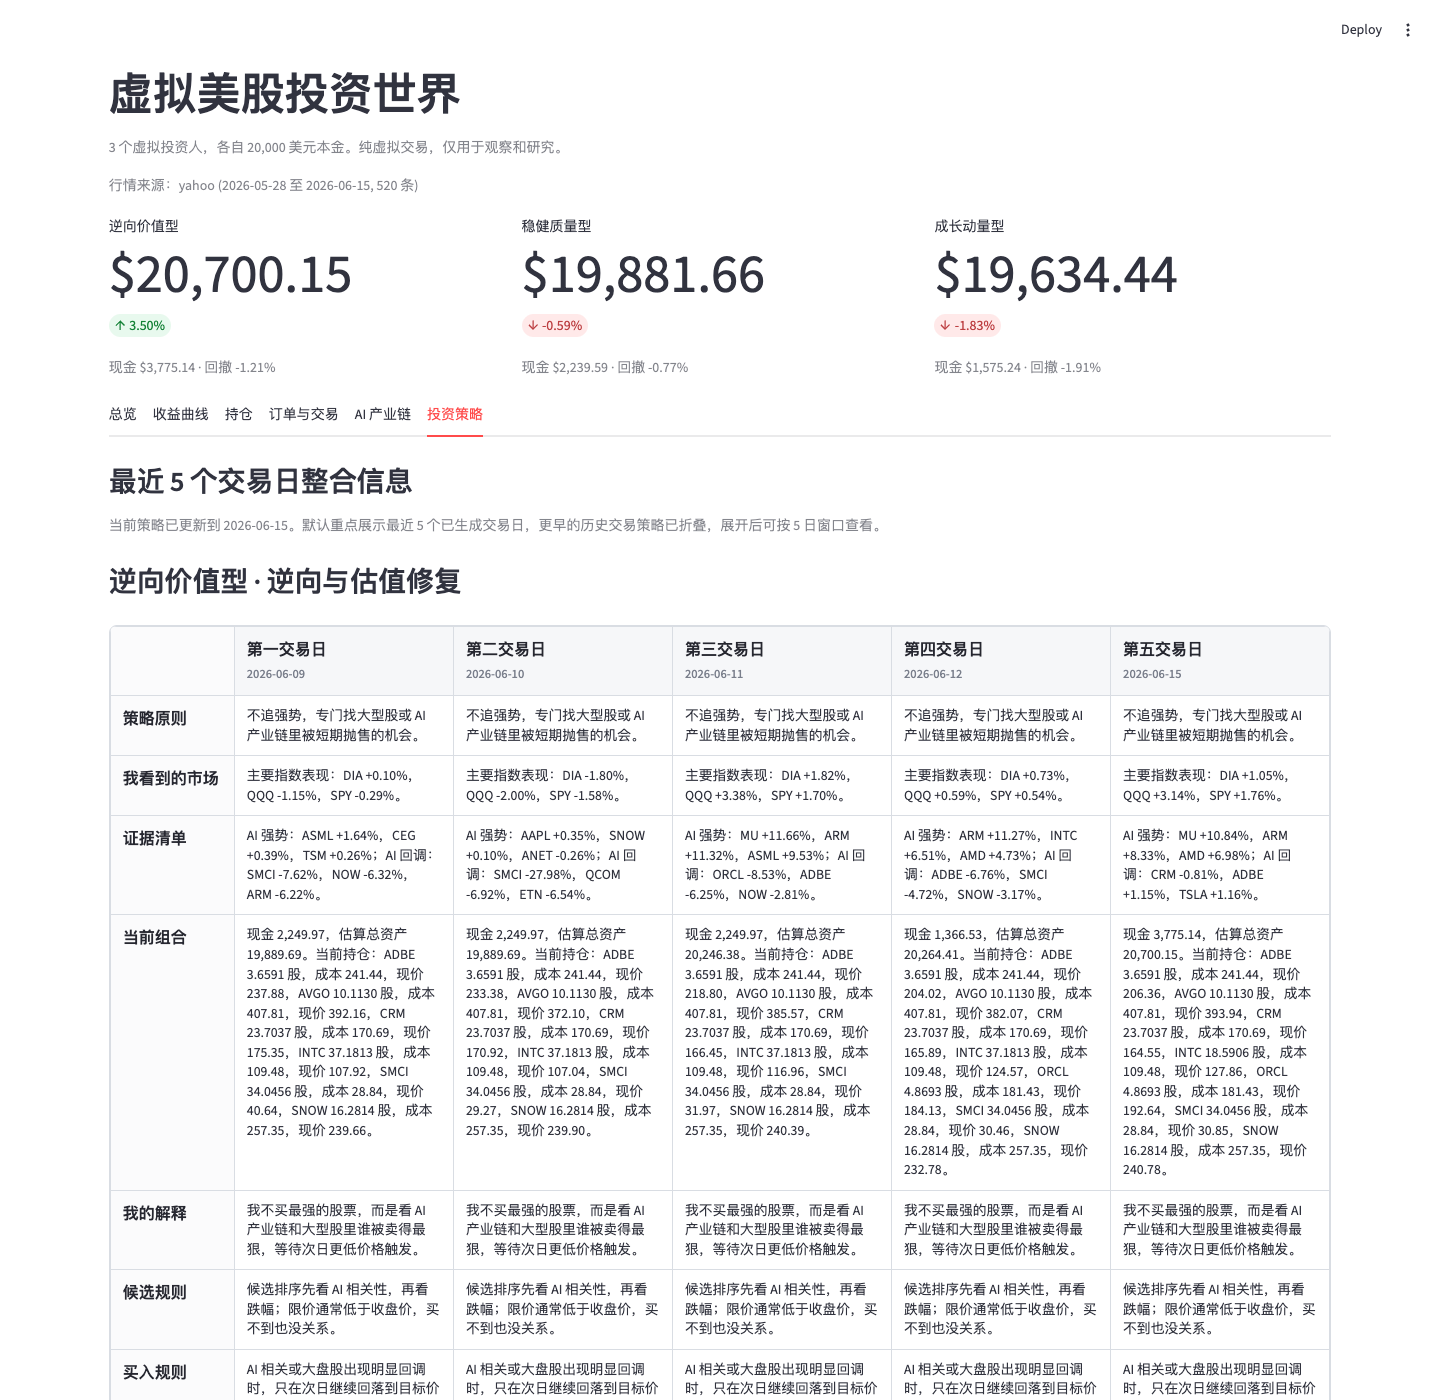
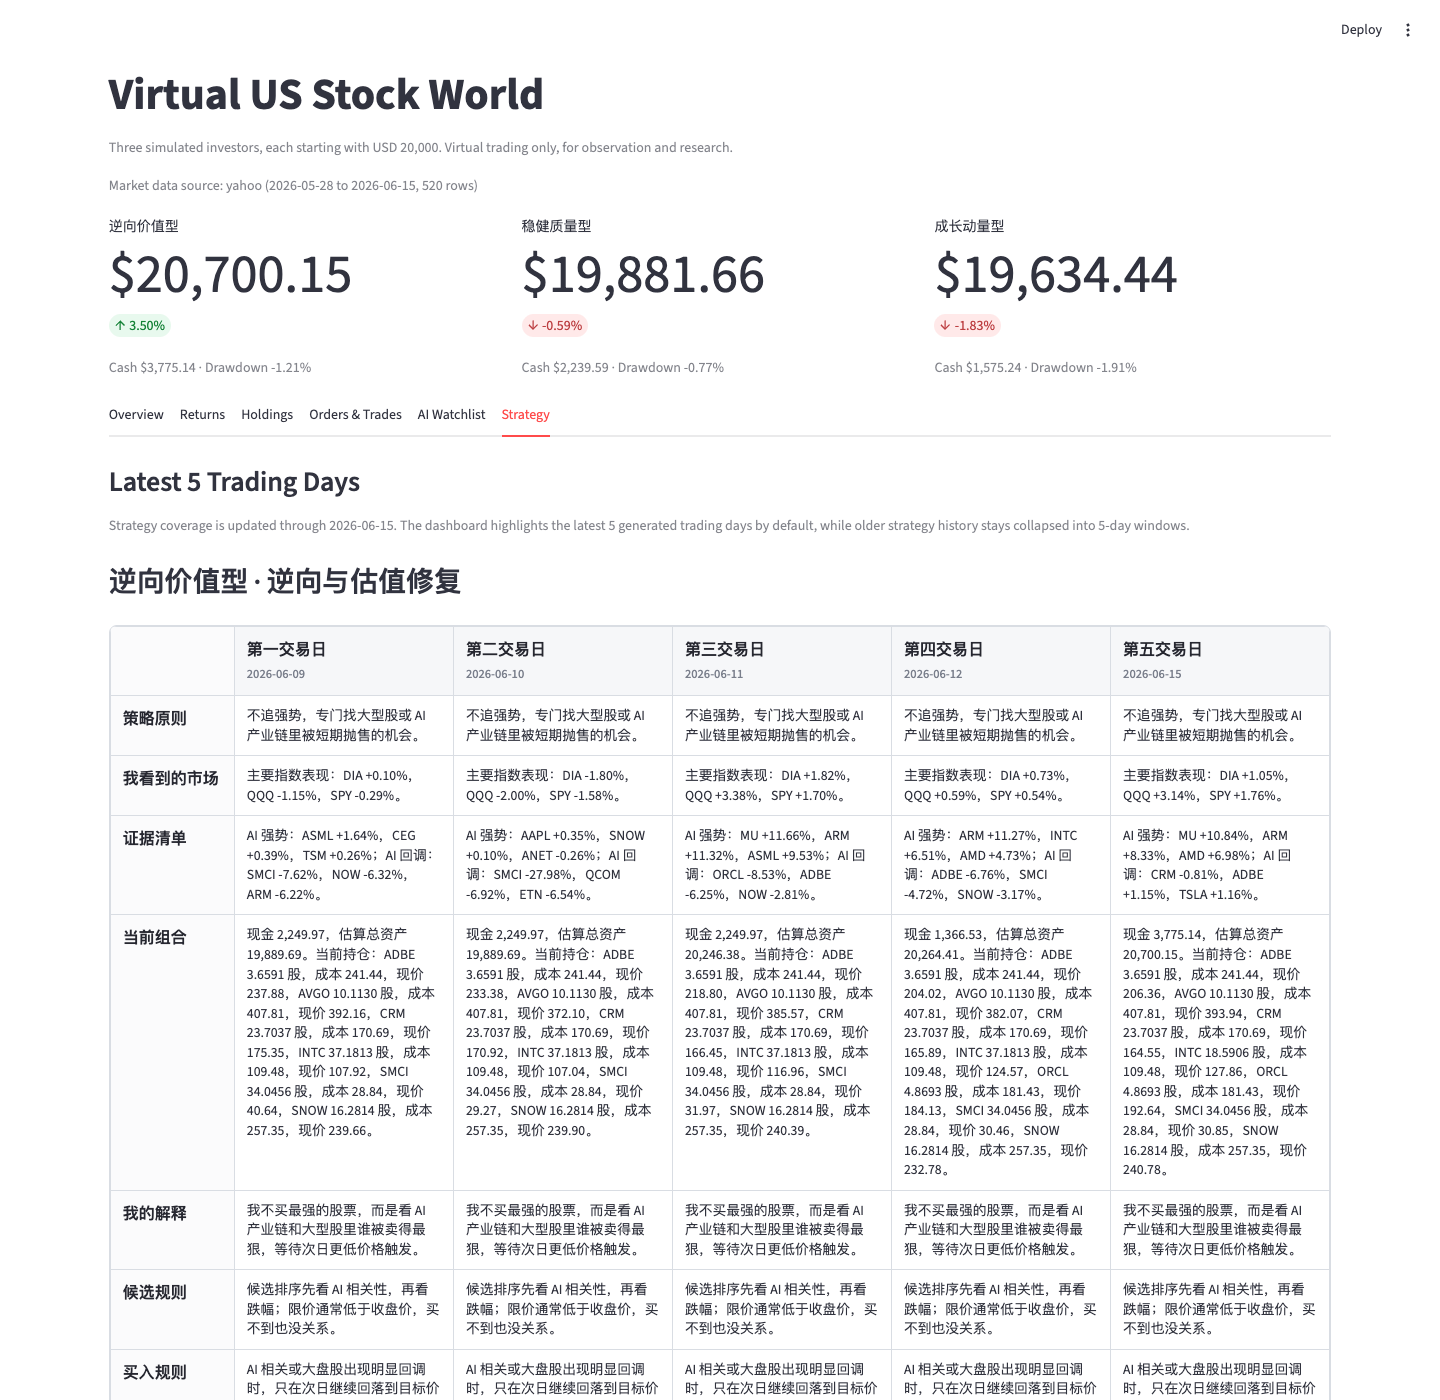
Translate dashboard navigation and add returns screenshot

diff --git a/scripts/capture_readme_screenshots.js b/scripts/capture_readme_screenshots.js
@@ -21,7 +21,18 @@ async function capture() {
       fullPage: false,
       waitFor: { selector: '[data-testid="stAppViewContainer"]' },
       afterLoad: async (page) => {
-        await page.getByText("投资策略", { exact: true }).click();
+        await page.getByText("Strategy", { exact: true }).click();
+        await page.waitForTimeout(1200);
+      },
+    },
+    {
+      url: "http://127.0.0.1:8501/",
+      path: "assets/screenshots/returns-dashboard.png",
+      viewport: { width: 1440, height: 1400 },
+      fullPage: false,
+      waitFor: { selector: '[data-testid="stAppViewContainer"]' },
+      afterLoad: async (page) => {
+        await page.getByText("Returns", { exact: true }).click();
         await page.waitForTimeout(1200);
       },
     },

diff --git a/app.py b/app.py
@@ -25,7 +25,7 @@ from virtual_trader.db import (
 )
 
 
-st.set_page_config(page_title="虚拟美股投资世界", page_icon="📈", layout="wide")
+st.set_page_config(page_title="Virtual US Stock World", page_icon="📈", layout="wide")
 
 st.markdown(
     """
@@ -626,20 +626,23 @@ ai_symbols = pd.DataFrame(data["ai_symbols"])
 price_sources = pd.DataFrame(data["price_sources"])
 latest_prices = data["prices"]
 
-st.title("虚拟美股投资世界")
-st.caption("3 个虚拟投资人，各自 20,000 美元本金。纯虚拟交易，仅用于观察和研究。")
+st.title("Virtual US Stock World")
+st.caption("Three simulated investors, each starting with USD 20,000. Virtual trading only, for observation and research.")
 
 if not price_sources.empty:
     sources = ", ".join(
-        f"{row.source} ({row.first_date} 至 {row.last_date}, {row.rows} 条)" for row in price_sources.itertuples()
+        f"{row.source} ({row.first_date} to {row.last_date}, {row.rows} rows)" for row in price_sources.itertuples()
     )
     if any(str(source).startswith("synthetic") for source in price_sources["source"]):
-        st.error(f"当前数据库含演示合成行情：{sources}。请运行 `python3 run_daily.py --reset --demo-days 2` 重新拉取真实行情。")
+        st.error(
+            f"The current database includes synthetic demo prices: {sources}. "
+            "Run `python3 run_daily.py --reset --demo-days 2` to rebuild with real market data."
+        )
     else:
-        st.caption(f"行情来源：{sources}")
+        st.caption(f"Market data source: {sources}")
 
 if snapshots.empty:
-    st.info("还没有资产快照。先运行 `python3 run_daily.py --demo-days 8` 生成演示数据。")
+    st.info("No portfolio snapshots yet. Run `python3 run_daily.py --demo-days 8` to generate demo data first.")
     st.stop()
 
 latest_date = snapshots["date"].max()
@@ -655,27 +658,27 @@ for idx, row in latest.sort_values("total_value", ascending=False).reset_index(d
             f"${row['total_value']:,.2f}",
             f"{row['cumulative_return'] * 100:.2f}%",
         )
-        st.caption(f"现金 ${row['cash']:,.2f} · 回撤 {row['drawdown'] * 100:.2f}%")
+        st.caption(f"Cash ${row['cash']:,.2f} · Drawdown {row['drawdown'] * 100:.2f}%")
 
-tabs = st.tabs(["总览", "收益曲线", "持仓", "订单与交易", "AI 产业链", "投资策略"])
+tabs = st.tabs(["Overview", "Returns", "Holdings", "Orders & Trades", "AI Watchlist", "Strategy"])
 
 with tabs[0]:
-    st.subheader(f"{latest_date} 排名")
+    st.subheader(f"{latest_date} Rankings")
     ranking = latest[
         ["name", "style", "cash", "positions_value", "total_value", "cumulative_return", "drawdown"]
     ].sort_values("total_value", ascending=False)
-    ranking["收益率"] = (ranking["cumulative_return"] * 100).map(lambda v: f"{v:.2f}%")
-    ranking["回撤"] = (ranking["drawdown"] * 100).map(lambda v: f"{v:.2f}%")
+    ranking["Return"] = (ranking["cumulative_return"] * 100).map(lambda v: f"{v:.2f}%")
+    ranking["Drawdown"] = (ranking["drawdown"] * 100).map(lambda v: f"{v:.2f}%")
     st.dataframe(
         ranking.rename(
             columns={
-                "name": "虚拟人",
-                "style": "风格",
-                "cash": "现金",
-                "positions_value": "持仓市值",
-                "total_value": "总资产",
+                "name": "Persona",
+                "style": "Style",
+                "cash": "Cash",
+                "positions_value": "Positions Value",
+                "total_value": "Total Value",
             }
-        )[["虚拟人", "风格", "现金", "持仓市值", "总资产", "收益率", "回撤"]],
+        )[["Persona", "Style", "Cash", "Positions Value", "Total Value", "Return", "Drawdown"]],
         width="stretch",
         hide_index=True,
     )
@@ -683,11 +686,11 @@ with tabs[0]:
 with tabs[1]:
     chart_data = snapshots.merge(personas, left_on="persona_id", right_on="id", suffixes=("", "_persona"))
     st.plotly_chart(
-        px.line(chart_data, x="date", y="total_value", color="name", markers=True, title="资产净值"),
+        px.line(chart_data, x="date", y="total_value", color="name", markers=True, title="Portfolio Value"),
         width="stretch",
     )
     st.plotly_chart(
-        px.line(chart_data, x="date", y="cumulative_return", color="name", markers=True, title="累计收益率"),
+        px.line(chart_data, x="date", y="cumulative_return", color="name", markers=True, title="Cumulative Return"),
         width="stretch",
     )
 
@@ -699,7 +702,7 @@ with tabs[2]:
         render_position_ledger(ledger, trade_histories)
 
 with tabs[3]:
-    st.subheader("订单")
+    st.subheader("Orders")
     if orders.empty:
         st.info("暂无订单。")
     else:
@@ -725,7 +728,7 @@ with tabs[3]:
             width="stretch",
             hide_index=True,
         )
-    st.subheader("成交")
+    st.subheader("Trades")
     if trades.empty:
         st.info("暂无成交。")
     else:
@@ -748,7 +751,7 @@ with tabs[3]:
         )
 
 with tabs[4]:
-    st.subheader("AI 产业链股票池")
+    st.subheader("AI Watchlist")
     ai_symbol_view = ai_symbols.rename(
         columns={"symbol": "股票", "name": "公司", "sector": "板块", "ai_tags": "AI 标签"}
     )[["股票", "公司", "板块", "AI 标签"]]
@@ -767,9 +770,9 @@ with tabs[4]:
     if not positions.empty:
         ai_positions = positions[positions["ai_tags"].fillna("") != ""]
         if ai_positions.empty:
-            st.info("当前三位虚拟人还没有 AI 标签持仓。")
+            st.info("None of the three personas currently holds AI-tagged positions.")
         else:
-            st.subheader("AI 持仓")
+            st.subheader("AI Holdings")
             ai_position_view = build_position_view(ai_positions, personas, symbols)
             render_position_cards(ai_position_view)
 
@@ -781,18 +784,19 @@ with tabs[5]:
         latest_report_date = dates_desc[0]
         recent_dates = sorted(dates_desc[:5])
         older_date_windows = historical_windows(dates_desc)
-        st.subheader("最近 5 个交易日整合信息")
+        st.subheader("Latest 5 Trading Days")
         st.caption(
-            f"当前策略已更新到 {latest_report_date}。默认重点展示最近 5 个已生成交易日，"
-            "更早的历史交易策略已折叠，展开后可按 5 日窗口查看。"
+            f"Strategy coverage is updated through {latest_report_date}. "
+            "The dashboard highlights the latest 5 generated trading days by default, "
+            "while older strategy history stays collapsed into 5-day windows."
         )
         for _, persona in personas.iterrows():
             render_strategy_matrix(persona, recent_dates, reports, orders, trades)
         if older_date_windows:
-            with st.expander("历史交易策略", expanded=False):
+            with st.expander("Historical Strategy Windows", expanded=False):
                 for history_dates in older_date_windows:
                     start_date = history_dates[0]
                     end_date = history_dates[-1]
-                    with st.expander(f"{start_date} 至 {end_date}", expanded=False):
+                    with st.expander(f"{start_date} to {end_date}", expanded=False):
                         for _, persona in personas.iterrows():
                             render_strategy_matrix(persona, history_dates, reports, orders, trades)

diff --git a/README.md b/README.md
@@ -44,7 +44,13 @@ The repository homepage shows the English project summary, setup instructions, a
 
 ![Strategy dashboard](assets/screenshots/strategy-dashboard.png)
 
-This dashboard view highlights the recent 5-trading-day strategy matrix. The current dashboard interface is Chinese-first, while the public-facing GitHub documentation is maintained in English.
+This dashboard view highlights the recent 5-trading-day strategy matrix.
+
+### Returns Dashboard
+
+![Returns dashboard](assets/screenshots/returns-dashboard.png)
+
+The dashboard UI is being translated progressively into English, starting with the page title, top navigation, and key section headers.
 
 ## Quick Start
 